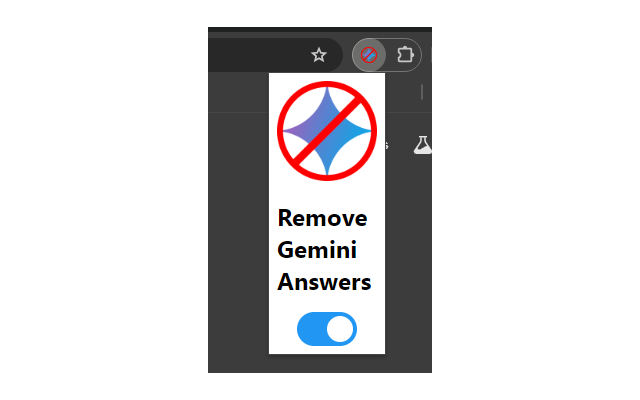
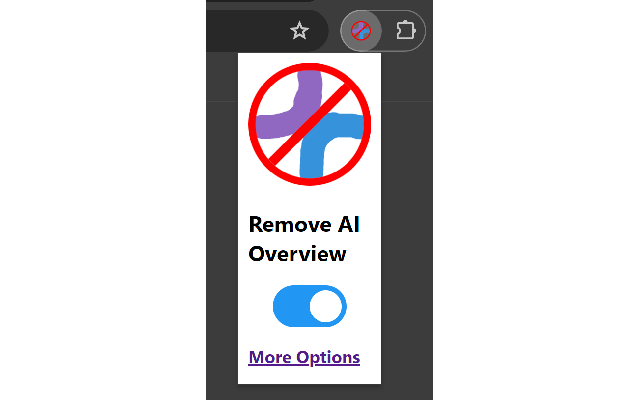
Removed Trademark Infringement
- RIP NoGemini, long live NoAiOverviewBoxThingy!

Changed region(s): [[0.3125, 0.0, 0.6875, 0.93], [0.3125, 0.93, 0.6875, 1.0], [0.6562, 0.21, 0.6875, 0.24]]

diff --git a/zapAiOverviewBlock/zapAiOverviewBlock.js b/zapAiOverviewBlock/zapAiOverviewBlock.js
@@ -1,6 +1,6 @@
-const GEMINI_BLOCK = "div.KTPFee";
-const SUB_GEMINI_BLOCK = "div.s7d4ef";
-const TEST_GEMINI_BLOCK = "div.ALnV7";
+const AI_OVERVIEW_BLOCK = "div.KTPFee";
+const SUB_AI_OVERVIEW_BLOCK = "div.s7d4ef";
+const TEST_AI_OVERVIEW_BLOCK = "div.ALnV7";
 
 //Thanks to user "Yong Wang" at https://stackoverflow.com/questions/5525071/how-to-wait-until-an-element-exists
 function WaitForElement(selector) {
@@ -24,38 +24,38 @@ function WaitForElement(selector) {
     });
 }
 
-function zapGemini()
+function zapAiOverview()
 {
 	chrome.storage.sync.get(
-	    { removeGemini: true, forceWeb: false },
+	    { removeAiOverview: true, forceWeb: false },
 	    (settings) => {
-	    	if(settings.removeGemini)
+	    	if(settings.removeAiOverview)
 	    	{
 	    		//If Gemini Fails to find an answer, this will remove the "Failed" text
-	    		WaitForElement(GEMINI_BLOCK).then((geminiElement) => 
+	    		WaitForElement(AI_OVERVIEW_BLOCK).then((aiOverviewElement) => 
 	    		{
 		    		//console.log("Wait over for element");
-		    		//console.log(geminiElement);
+		    		//console.log(aiOverviewElement);
 					
-					//geminiElement.parentElement.removeChild(subGeminiElement);
-					geminiElement.replaceChildren([]);
+					//aiOverviewElement.parentElement.removeChild(subAiOverviewElement);
+					aiOverviewElement.replaceChildren([]);
 	    		});
 
 				/*
 	    		//If Gemini finds an answer, the previous block will leave a chunk of empty space, which this gets rid of
-	    		WaitForElement(SUB_GEMINI_BLOCK).then((subGeminiElement) => 
+	    		WaitForElement(SUB_AI_OVERVIEW_BLOCK).then((subAiOverviewElement) => 
 	    		{
 		    		console.log("Wait over for element");
-		    		console.log(subGeminiElement);
-					subGeminiElement.parentElement.removeChild(subGeminiElement);
+		    		console.log(subAiOverviewElement);
+					subAiOverviewElement.parentElement.removeChild(subAiOverviewElement);
 	    		});
 
-	    		WaitForElement(TEST_GEMINI_BLOCK).then((testGeminiElement) => 
+	    		WaitForElement(TEST_AI_OVERVIEW_BLOCK).then((testAiOverviewElement) => 
 	    		{
 		    		console.log("Wait over for element");
-		    		console.log(testGeminiElement);
-					//testGeminiElement.parentElement.removeChild(testGeminiElement);
-					testGeminiElement.replaceChildren([]);
+		    		console.log(testAiOverviewElement);
+					//testAiOverviewElement.parentElement.removeChild(testAiOverviewElement);
+					testAiOverviewElement.replaceChildren([]);
 	    		});
 	    		*/
 	    	}
@@ -63,4 +63,4 @@ function zapGemini()
   	)
 };
 
-zapGemini();
+zapAiOverview();

diff --git a/options/options.js b/options/options.js
@@ -1,19 +1,19 @@
 function TryChangeRuleset()
 {
   chrome.storage.sync.get(
-      { removeGemini: true, forceWebMode: false },
+      { removeAiOverview: true, forceWebMode: false },
       (settings) => 
       {
         var enable = [];
         var disable = [];
 
-        if(settings.forceWebMode && settings.removeGemini)
+        if(settings.forceWebMode && settings.removeAiOverview)
         {
-          enable.push("geminiKillerRuleset");
+          enable.push("aiOverviewKillerRuleset");
         }
         else
         {
-          disable.push("geminiKillerRuleset");
+          disable.push("aiOverviewKillerRuleset");
         }
 
         chrome.declarativeNetRequest.updateEnabledRulesets({disableRulesetIds:disable, enableRulesetIds:enable});
@@ -23,10 +23,10 @@ function TryChangeRuleset()
 
 // Saves options to chrome.storage
 const saveOptions = () => {
-  const removeGemini = document.getElementById('removeGemini').checked;
+  const removeAiOverview = document.getElementById('removeAiOverview').checked;
   const forceWebMode = document.getElementById('forceWebMode').checked;
 
-  chrome.storage.sync.set({ removeGemini: removeGemini, forceWebMode: forceWebMode });
+  chrome.storage.sync.set({ removeAiOverview: removeAiOverview, forceWebMode: forceWebMode });
 
   TryChangeRuleset();
 };
@@ -35,14 +35,14 @@ const saveOptions = () => {
 // stored in chrome.storage.
 const restoreOptions = () => {
   chrome.storage.sync.get(
-    { removeGemini: true, forceWebMode: false },
+    { removeAiOverview: true, forceWebMode: false },
     (settings) => {
-      document.getElementById('removeGemini').checked = settings.removeGemini;
+      document.getElementById('removeAiOverview').checked = settings.removeAiOverview;
       document.getElementById('forceWebMode').checked = settings.forceWebMode;
     }
   );
 };
 
 document.addEventListener('DOMContentLoaded', restoreOptions);
-document.getElementById('removeGemini').addEventListener('click', saveOptions);
+document.getElementById('removeAiOverview').addEventListener('click', saveOptions);
 document.getElementById('forceWebMode').addEventListener('click', saveOptions);

diff --git a/popup.js b/popup.js
@@ -1,19 +1,19 @@
 function TryChangeRuleset()
 {
   chrome.storage.sync.get(
-      { removeGemini: true, forceWebMode: false },
+      { removeAiOverview: true, forceWebMode: false },
       (settings) => 
       {
         var enable = [];
         var disable = [];
 
-        if(settings.forceWebMode && settings.removeGemini)
+        if(settings.forceWebMode && settings.removeAiOverview)
         {
-          enable.push("geminiKillerRuleset");
+          enable.push("aiOverviewKillerRuleset");
         }
         else
         {
-          disable.push("geminiKillerRuleset");
+          disable.push("aiOverviewKillerRuleset");
         }
 
         chrome.declarativeNetRequest.updateEnabledRulesets({disableRulesetIds:disable, enableRulesetIds:enable});
@@ -23,8 +23,8 @@ function TryChangeRuleset()
 
 // Saves options to chrome.storage
 const saveOptions = () => {
-  const removeGemini = document.getElementById('removeGemini').checked;
-  chrome.storage.sync.set({ removeGemini: removeGemini });
+  const removeAiOverview = document.getElementById('removeAiOverview').checked;
+  chrome.storage.sync.set({ removeAiOverview: removeAiOverview });
 
   //We may need to update the Force Web Mode rules
   TryChangeRuleset();
@@ -34,13 +34,13 @@ const saveOptions = () => {
 // stored in chrome.storage.
 const restoreOptions = () => {
   chrome.storage.sync.get(
-    { removeGemini: true, forceWebMode: false },
+    { removeAiOverview: true, forceWebMode: false },
     (settings) => {
-      document.getElementById('removeGemini').checked = settings.removeGemini;
+      document.getElementById('removeAiOverview').checked = settings.removeAiOverview;
     }
   );
 };
 
 document.addEventListener('DOMContentLoaded', restoreOptions);
-document.getElementById('removeGemini').addEventListener('click', saveOptions);
+document.getElementById('removeAiOverview').addEventListener('click', saveOptions);
 document.getElementById('options').addEventListener('click', () => chrome.runtime.openOptionsPage());

diff --git a/popup.html b/popup.html
@@ -1,14 +1,14 @@
 <!DOCTYPE html>
 <html>
 	<head>
-		<Title>No Gemini Options</Title>
+		<Title>No AI Overview Box Thingy Options</Title>
 		<link rel="stylesheet" href="options/toggleSwitch.css">
 	</head>
 	<body>
-		<img src="NoGeminiIcon.png" alt="No Gemini Icon" style="width:100px;">
-		<h1>Remove Gemini Answers</h1>
+		<img src="NoAiOverviewIcon.png" alt="No AI Overview Icon" style="width:100px;">
+		<h2>Remove AI Overview</h2>
 		<label style="display:block;margin-left:auto;margin-right:auto;" class="switch">
-			<input type="checkbox" id="removeGemini">
+			<input type="checkbox" id="removeAiOverview">
 			<span class="slider round"></span>
 		</label>
 		<h3><a href="" id="options">More Options</a></h3>

diff --git a/options/options.html b/options/options.html
@@ -1,12 +1,12 @@
 <html>
 	<head>
-		<title>No Gemini Options</title>
+		<title>No AI Overview Box Thingy Options</title>
 		<link rel="stylesheet" href="toggleSwitch.css">
 	</head>
 	<body>
-		<h1>Remove Gemini Answers</h1>
+		<h1>Remove AI Overview</h1>
 		<label class="switch">
-			<input type="checkbox" id="removeGemini">
+			<input type="checkbox" id="removeAiOverview">
 			<span class="slider round"></span>
 		</label>
 		<h1>Force Web Mode</h1>

diff --git a/README.md b/README.md
@@ -1,17 +1,17 @@
-# NoGemini
-![No Gemini Icon](NoGeminiIcon.png "No Gemini")
+# No AI Overview Box Thingy
+![No AI Overview Box Thingy Icon](NoAiOverviewBoxThingyIcon.png "No AI Search Results Box Thingy")
 
-A Chrome extension that removes Google Gemini's invasive and often incorrect search results.
+A Chrome extension that removes the invasive and often incorrect "AI" generated overview.
 
-No Gemini accomplishes this by adding "&udm=14" to every search made, which tells Google to use "Web" mode.
+No AI Overview Box Thingy accomplishes this deleting the web element that contains the overview, or in legacy mode, by adding "&udm=14" to every search made, which tells Google to use "Web" mode.
 
-This does mean that Google Images and the like do not function if the extension is active, but the extension can be easily toggled on and off in its popup menu.
+In legacy mode, Google Images and the like do not function if the extension is active, but the extension can be easily toggled on and off in its popup menu.
 
-![No Gemini Popup Menu](readmeImages/Settings_Popup.png "Popup Menu")
+![No AI Overview Box Thingy Popup Menu](readmeImages/Settings_Popup.png "Popup Menu")
 
 ## Installation
 After downloading this repository, navigate to `chrome://extensions` and enable `developer mode`
 
 Then, select `Load Unpacked` and find the `NoGemini` repository folder. Select it, and the extension will be added and enabled.
 
-To pin the extension, find the jigsaw puzzle piece next to the search bar, and use the dropdown menu to pin NoGemini for quick access to its options.
+To pin the extension, find the jigsaw puzzle piece next to the search bar, and use the dropdown menu to pin NoAiOverviewBoxThingy for quick access to its options.
